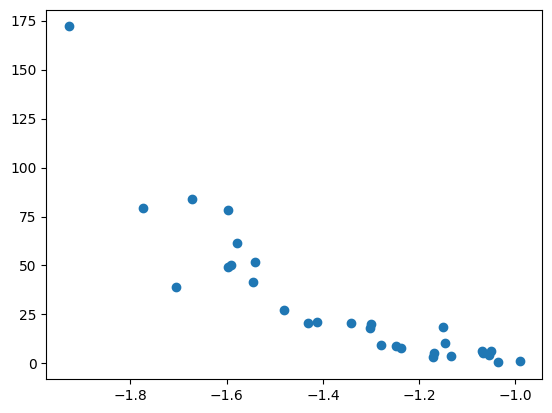
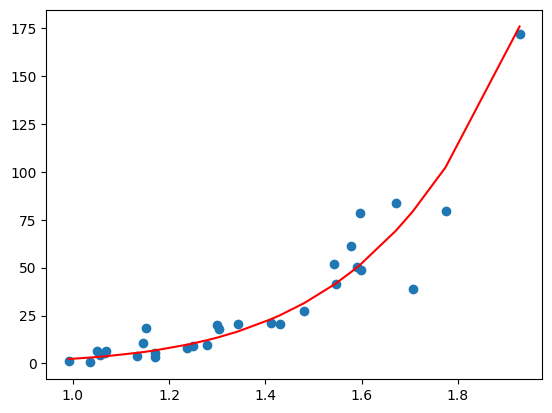
explore zipf-mandelbrot parameter relationships

diff --git a/src/real_corpora_analyse_ld.py b/src/real_corpora_analyse_ld.py
@@ -41,8 +41,45 @@ ld_mean_df = ld_stat_df_gpd.mean()
 # Save it
 ld_mean_df.to_csv(output_mean_path)
 
-# import matplotlib.pyplot as plt
+# ---- Zipf study 
 
-# plt.scatter(num_data["zipf_intercept"], num_data["zipf_slope"], )
-# plt.scatter(num_data["zipf_intercept"], num_data["zipf_shift"], )
-# plt.scatter(num_data["zipf_slope"], num_data["zipf_shift"], )
+import matplotlib.pyplot as plt
+from sklearn.linear_model import LinearRegression
+
+model_isl = LinearRegression()
+model_isl.fit(num_data["zipf_intercept"].to_numpy().reshape(-1, 1), 
+             num_data["zipf_slope"])
+plt.figure()
+plt.scatter(num_data["zipf_intercept"], num_data["zipf_slope"])
+plt.axline((0, model_isl.intercept_), 
+           (1, model_isl.intercept_ + model_isl.coef_[0]),
+           color="red")
+
+model_ish = LinearRegression()
+model_ish.fit(np.log(num_data["zipf_intercept"]).to_numpy().reshape(-1, 1), 
+              np.log(num_data["zipf_shift"]))
+sorted_i = np.sort(num_data["zipf_intercept"])
+sh_from_i = np.exp(model_ish.predict(np.log(sorted_i).reshape(-1, 1)))
+plt.figure()
+plt.scatter(num_data["zipf_intercept"], num_data["zipf_shift"])
+plt.plot(sorted_i, sh_from_i, color="red")
+
+model_slsh = LinearRegression()
+model_slsh.fit(np.log(-num_data["zipf_slope"]).to_numpy().reshape(-1, 1), 
+               np.log(num_data["zipf_shift"]))
+sorted_sl = np.sort(-num_data["zipf_slope"])
+sh_from_sl = np.exp(model_slsh.predict(np.log(sorted_sl).reshape(-1, 1)))
+plt.figure()
+plt.scatter(-num_data["zipf_slope"], num_data["zipf_shift"])
+plt.plot(sorted_sl, sh_from_sl, color="red")
+
+print(f"Model intercept-slope : {model_isl.intercept_}, {model_isl.coef_[0]}")
+print(f"Model intercept-shift : {model_ish.intercept_}, {model_ish.coef_[0]}")
+print(f"Model slope-shift : {model_slsh.intercept_}, {model_slsh.coef_[0]}")
+
+# pente entre -1 et -2
+
+p = -1.5
+intercept = (p - model_isl.intercept_) / model_isl.coef_[0]
+shift = np.exp(model_slsh.predict(np.array(np.log(-p)).reshape(-1, 1)))[0]
+shift_2 = np.exp(model_ish.predict(np.array(np.log(intercept)).reshape(-1, 1)))[0]
